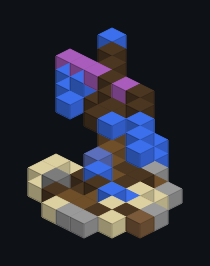
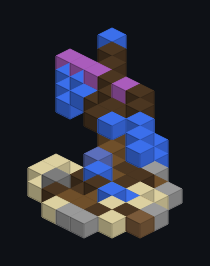
fix(world): hang the mast stump's lantern from a chain so placement keeps it

Changed region(s): [[0.3143, 0.3008, 0.4571, 0.4211]]

diff --git a/art/structures/wreck/mast_stump.py b/art/structures/wreck/mast_stump.py
@@ -5,7 +5,7 @@ The mast steps through a broken square of deck planking half buried in the bed (
 by a stripped log partner ring; it is spruce log below and a stripped fished section above an iron band (chains),
 and it snapped above the top: a splintered fence stub. Halfway up, the remains of the fighting top (trapdoors on
 beams, two of four gone). The yard still hangs across the mast, one arm snapped and hanging straight down; a lantern hangs from
-it and torn rigging trails from both arms (chains), a shroud of fences runs from the top down to the deck's edge in
+it on a short chain and torn rigging trails from both arms (chains), a shroud of fences runs from the top down to the deck's edge in
 steps. A cleat on the mast with a coil of rope (chain), and at the mast's foot a chest with the wreck loot table,
 half covered by sand and ballast."""
 import random
@@ -56,7 +56,8 @@ p.put(M + 1, YARD, M, "pirates_n_ships:yard[axis=x]")
 p.put(M + 2, YARD, M, "spruce_beam_x")                  # the stub of the broken arm
 p.put(M + 2, YARD - 1, M, "spruce_post")                 # the rest of it hanging straight down
 p.put(M + 2, YARD - 2, M, "fence")                       # its splinter
-p.put(1, YARD - 1, M, "lantern_hanging")
+p.put(1, YARD - 1, M, "chain_y")                         # a lantern on a short chain (the yard's underside cannot hold it)
+p.put(1, YARD - 2, M, "lantern_hanging")
 # torn rigging trailing from both arms
 for y in (YARD - 1, YARD - 2, YARD - 3):
     p.put(0, y, M, "chain_y")

diff --git a/art/README.md b/art/README.md
@@ -1432,7 +1432,7 @@ sea chest in the sloop's hold is empty: `SeaChestBlockEntity` is a plain contain
 |---|---|---|---|---|
 | `sunken_sloop` | 14×10×27 | 1091 | the starter sloop's hull (same half-widths, rocker, hold, forecastle, stern cabin and quarterdeck) heeled to starboard, the fore half 22°, the after half 27° and one block to starboard; each cross-section turned about the keel by sampling the upright hull, closed where blocks only meet at an edge. Frames (stripped spruce ribs) at the break with jagged planking either side, patches of missing planking (frames left standing in them), barnacle crust on the bottom, the mast snapped above the deck and fallen across the after deck into the sand, the lower yard and its chain beside the hull, sand banked against the starboard side and silting the low side of the hold and cabin, spilled ballast; bow north (−z) | `sea_chest` (forward hold), `cargo_barrel`, `cargo_crate` (slid to starboard in the after hold), `yard` |
 | `cargo_field` | 15×4×15 | 231 | a round, ragged bed with ballast stones; crates and barrels set into it with sand over their edges or sitting on it half buried, a toppled stack, kegs on their sides, a broken yard in two pieces with its chain, a cannon with its rear in a sand drift (it turns only horizontally, so it stands upright), loose planks and hatch covers, the chest under a fallen plank | `cargo_crate`, `cargo_barrel`, `yard`, `cannon` |
-| `mast_stump` | 7×12×7 | 92 | a broken square of deck planking in the bed with mast partners and heaved-up ballast, the mast (spruce log, an iron band of chain, a stripped fished section, a splintered stub on top), the remains of the fighting top, the yard with one arm snapped and hanging, a hanging lantern, torn rigging (chains), a stepped fence shroud, a cleat with a rope coil (chain), the chest at the foot half buried | `yard`, `cleat` |
+| `mast_stump` | 7×12×7 | 93 | a broken square of deck planking in the bed with mast partners and heaved-up ballast, the mast (spruce log, an iron band of chain, a stripped fished section, a splintered stub on top), the remains of the fighting top, the yard with one arm snapped and hanging, a lantern hanging from the yard on a short chain (the yard's underside cannot hold a hanging lantern: placement would drop it, WK1), torn rigging (chains), a stepped fence shroud, a cleat with a rope coil (chain), the chest at the foot half buried | `yard`, `cleat` |
 | `stern` | 9×8×11 | 441 | the stern of a larger ship, half buried: a framed transom facing north (−z) with quarter posts, trim bands at the cabin floor and the poop deck, four cabin windows round a mullion (two broken out) with sills and a hood, the nameplate above the rudder head, the taffrail; the rudder with iron straps; sides with a wale, a trim band, a quarter window and a frame post, falling away in steps to the broken end with its frames showing; the great cabin with a table and chairs, a keg, a lantern, a hanging lantern and the chest, the poop deck half fallen in, sand in the hold and drifting in at the broken end | `nameplate`, `cargo_crate` |
 
 Renders: `art/renders/structures/wreck/*.png`. `WreckPiecesTest` checks the committed pieces: the four files and no
